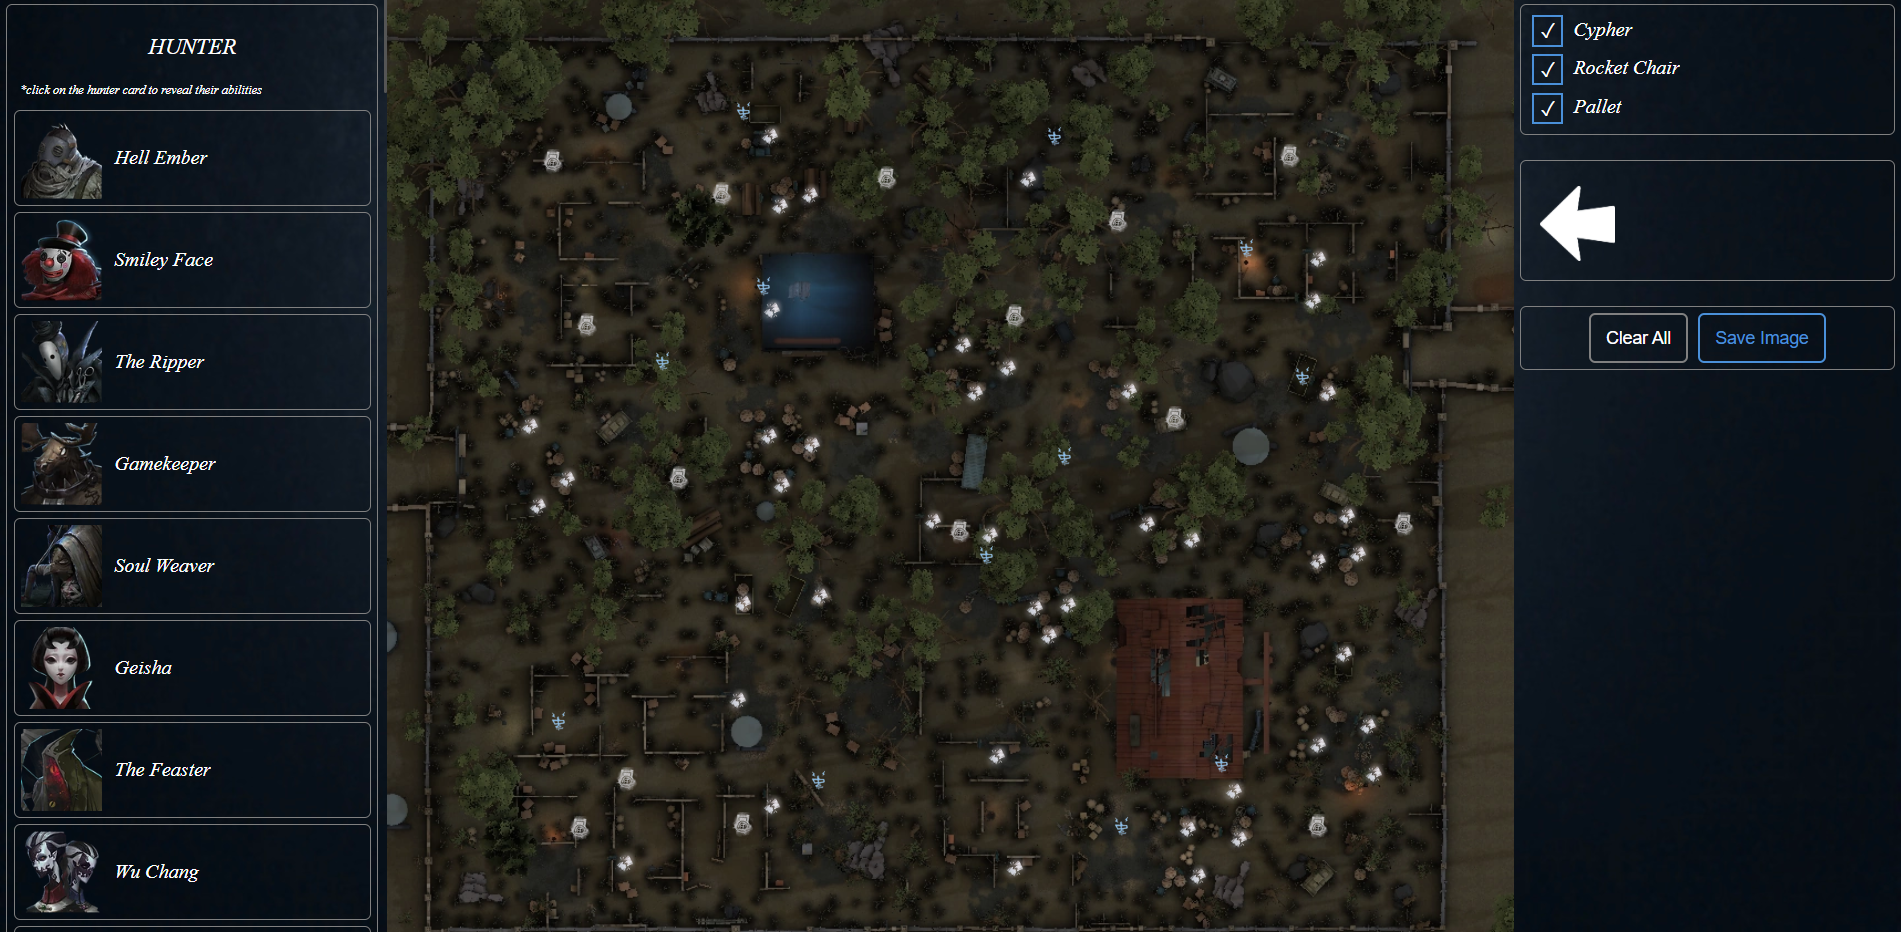
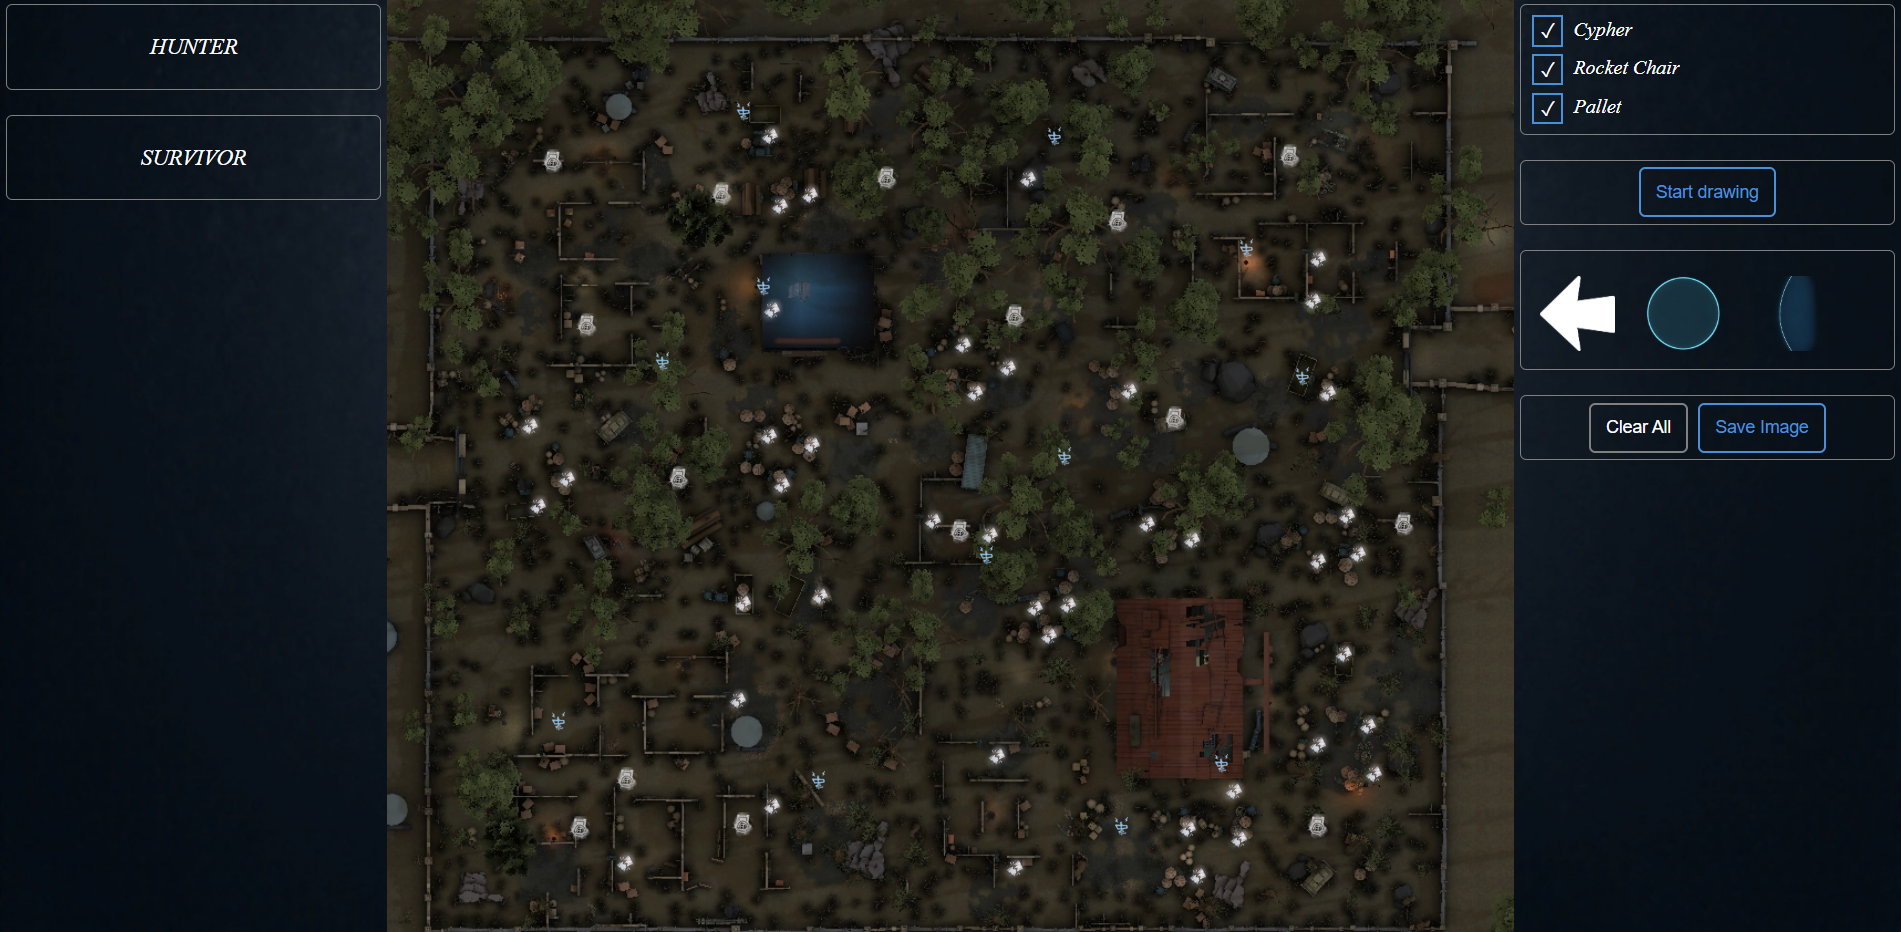
update readme to follow recent added feature

diff --git a/README.md b/README.md
@@ -19,6 +19,7 @@ A web-based strategy planner for **Identity V**. Drag and drop hunters, hunter a
 - 👁 **Toggle visibility** of map objects (cyphers, rocket chairs, pallets) by category
 - 🧹 **Clear all** placed icons with one click
 - 💾 **Export** your finished plan as a PNG image
+- ✏ **Draw lines** by clicking points on the map, forming open lines or closed shapes
 - 📖 Expandable hunter cards showing their abilities
 
 ## Tech Stack
@@ -81,6 +82,7 @@ Sebuah aplikasi web perencana strategi untuk **Identity V**. Seret dan letakkan 
 - 👁 **Tampilkan/sembunyikan** objek peta (cypher, rocket chair, pallet) per kategori
 - 🧹 **Hapus semua** ikon yang diletakkan dengan satu klik
 - 💾 **Ekspor** rencana yang sudah jadi sebagai gambar PNG
+- ✏ **Gambar garis** dengan mengklik titik-titik di peta, membentuk garis terbuka atau bentuk tertutup
 - 📖 Kartu hunter yang bisa dibuka untuk menampilkan daftar kemampuannya
 
 ## Teknologi yang Digunakan
